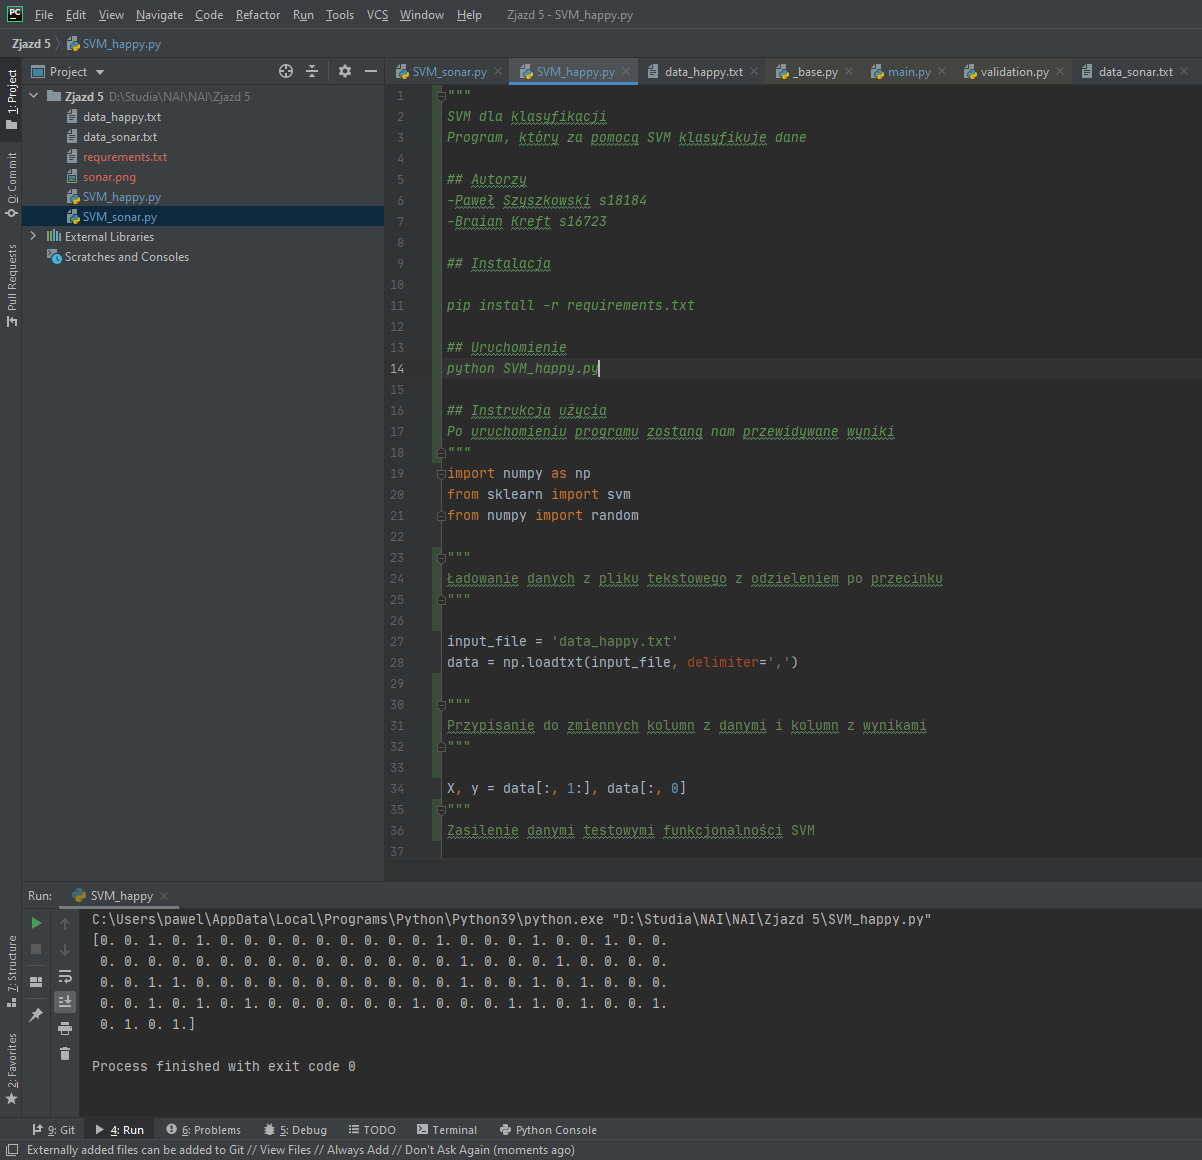
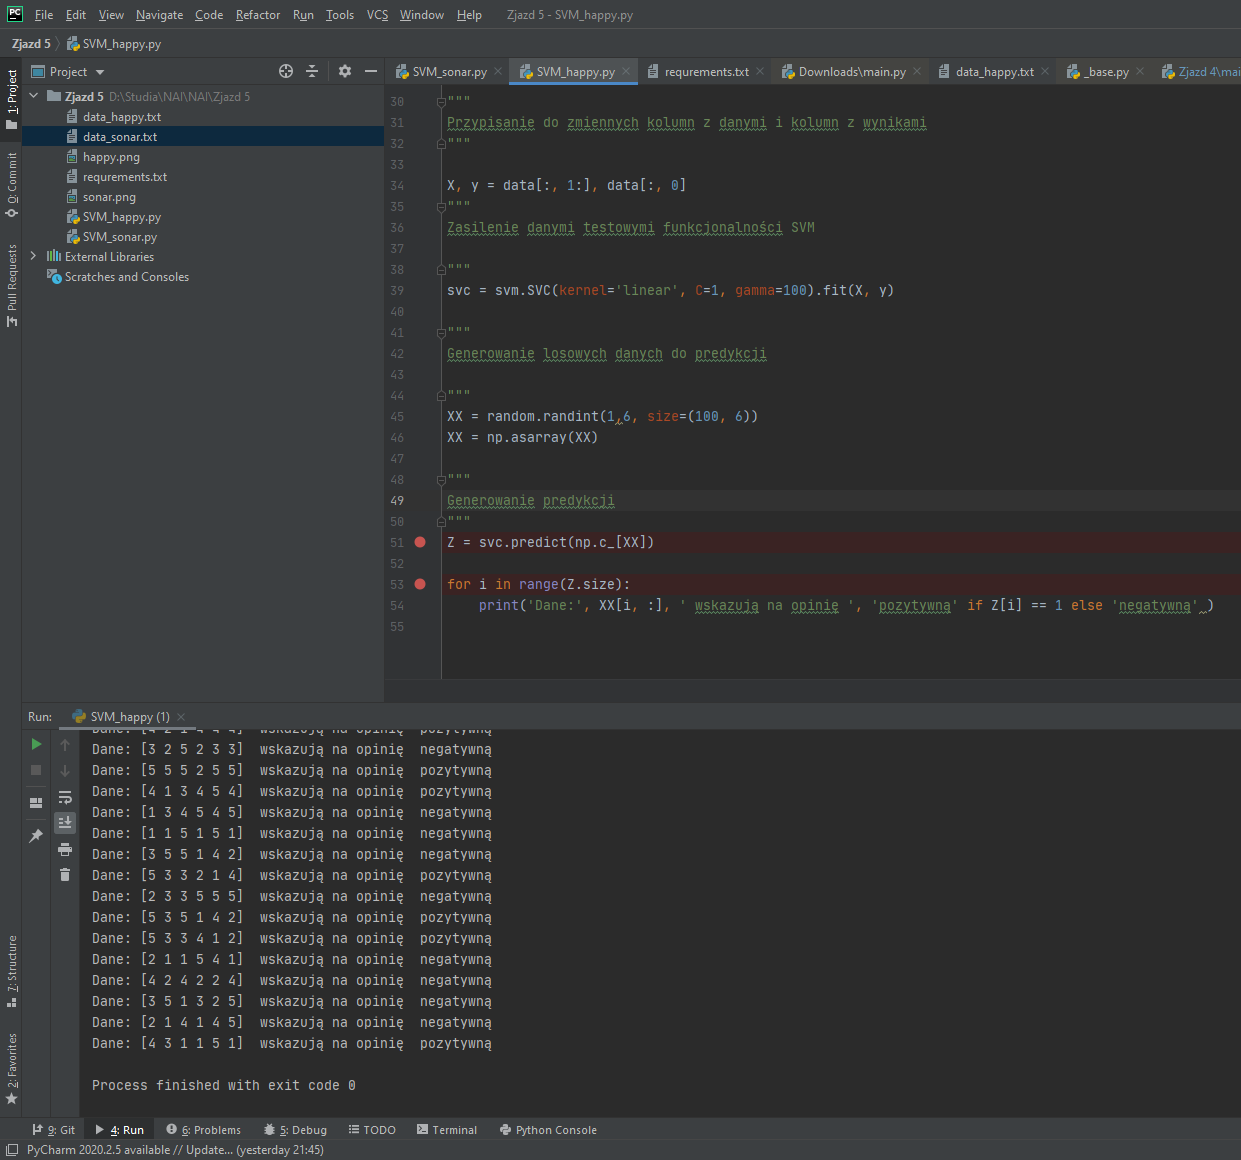
Zjazd 5

diff --git a/zjazd5/SVM_sonar.py b/zjazd5/SVM_sonar.py
@@ -46,5 +46,7 @@ XX = np.asarray(XX, dtype=np.float32)
 """
 Generowanie predykcji
 """
+
 Z = svc.predict(np.c_[XX.transpose()])
-print(Z)
+for i in range(Z.size):
+    print('Dane:', XX[:, i], ' wskazują na ', 'kamień' if Z[i] == 0 else 'minę')

diff --git a/zjazd5/SVM_happy.py b/zjazd5/SVM_happy.py
@@ -50,4 +50,5 @@ Generowanie predykcji
 """
 Z = svc.predict(np.c_[XX])
 
-print(Z)
+for i in range(Z.size):
+    print('Dane:', XX[i, :], ' wskazują na opinię ', 'pozytywną' if Z[i] == 1 else 'negatywną' )
